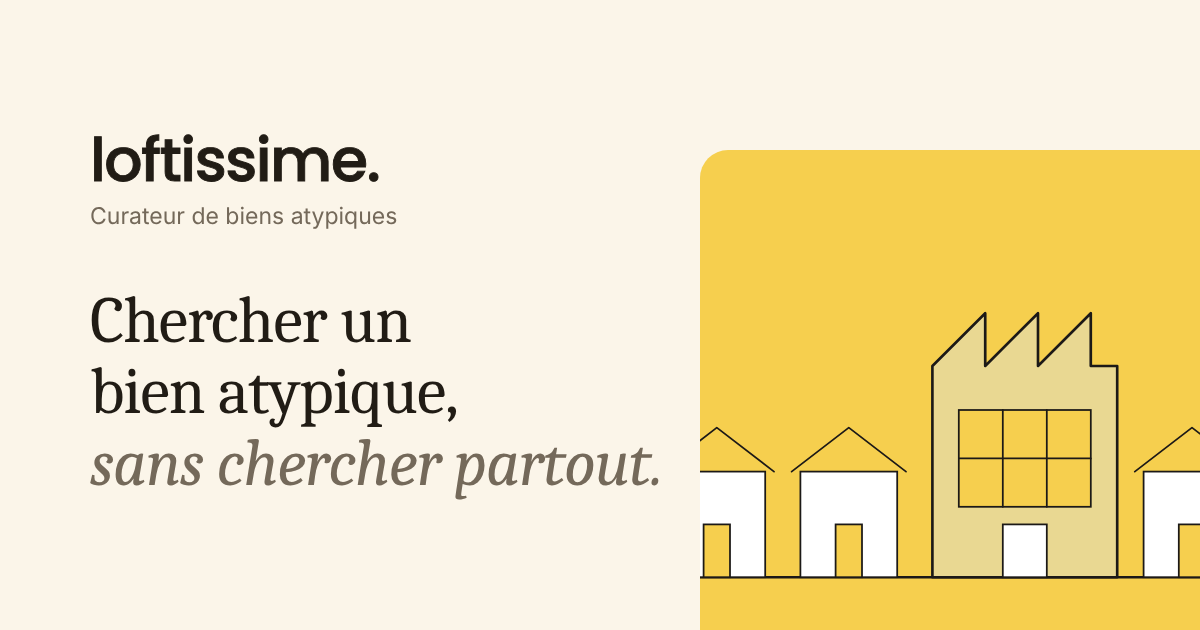
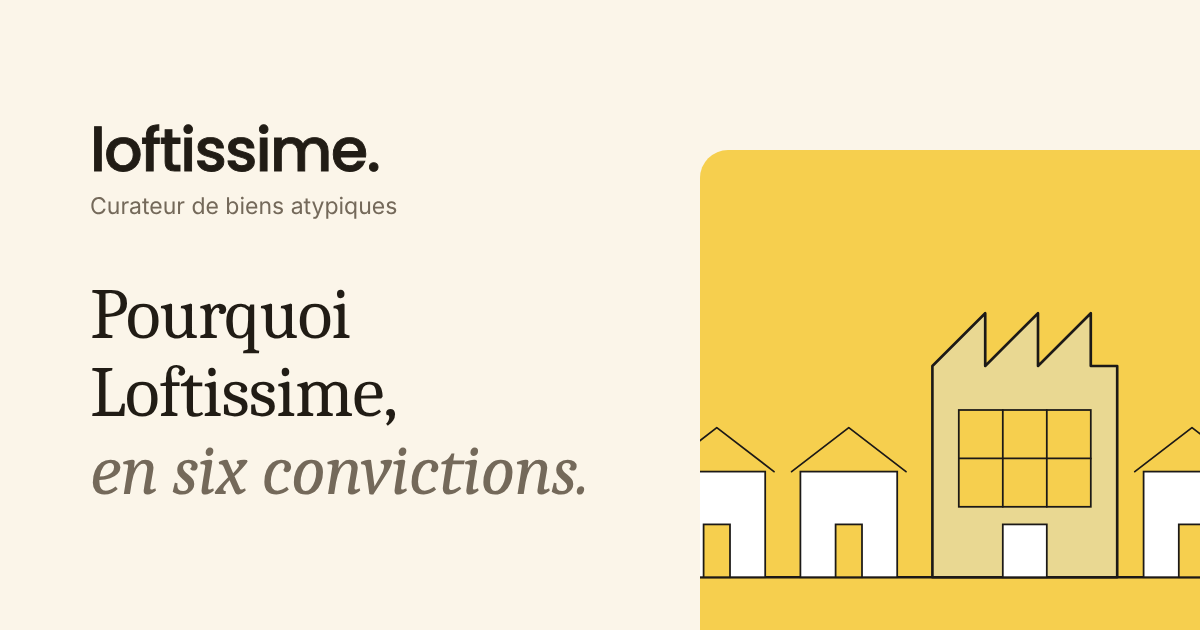
Accueil : titre « Chercher un bien atypique, sans chercher partout. » et sous-titre ; le manifeste prend un titre à lui
Claude-Session: https://claude.ai/code/session_015aKJiDLUy7h6cRtFn1LWuo

Changed region(s): [[0.0617, 0.573, 0.555, 0.7841], [0.0617, 0.181, 0.3392, 0.3619], [0.0617, 0.4524, 0.3392, 0.573]]

diff --git a/frontend/app/HeroTitle.tsx b/frontend/app/HeroTitle.tsx
@@ -2,8 +2,13 @@
 // Même dessin que les titres d'État des lieux : romain, puis italique gris.
 export default function HeroTitle() {
   return (
-    <h1 className="text-[2.4rem] md:text-[3.25rem] xl:whitespace-nowrap font-serif tracking-tight text-stone-900 leading-[1.1] [text-wrap:balance]">
-      Tous les biens atypiques, <span className="italic text-stone-500">réunis sur un seul site.</span>
-    </h1>
+    <>
+      <h1 className="text-[2.4rem] md:text-[3.25rem] xl:whitespace-nowrap font-serif tracking-tight text-stone-900 leading-[1.1] [text-wrap:balance]">
+        Chercher un bien atypique, <span className="italic text-stone-500">sans chercher partout.</span>
+      </h1>
+      <p className="mt-4 text-base md:text-lg font-light leading-relaxed text-stone-600 [text-wrap:balance]">
+        Tous les biens atypiques à vendre, toutes agences réunies, sur un seul site.
+      </p>
+    </>
   );
 }

diff --git a/frontend/app/qui-sommes-nous/page.tsx b/frontend/app/qui-sommes-nous/page.tsx
@@ -58,11 +58,8 @@ export default function ManifestoPage() {
 
       <header className="max-w-6xl mx-auto px-6 pt-8 md:pt-12 pb-8 md:pb-10">
         <h1 className="max-w-4xl text-4xl md:text-6xl font-serif tracking-tight text-stone-900 leading-[1.05]">
-          Chercher un bien atypique, <span className="italic text-stone-500">sans chercher partout.</span>
+          Pourquoi Loftissime, <span className="italic text-stone-500">en six convictions.</span>
         </h1>
-        <p className="mt-5 max-w-2xl text-stone-600 text-base md:text-lg font-light leading-relaxed">
-          Tous les biens atypiques à vendre, toutes agences réunies, sur un seul site.
-        </p>
       </header>
 
       <main className="max-w-6xl mx-auto px-6 pb-24">
